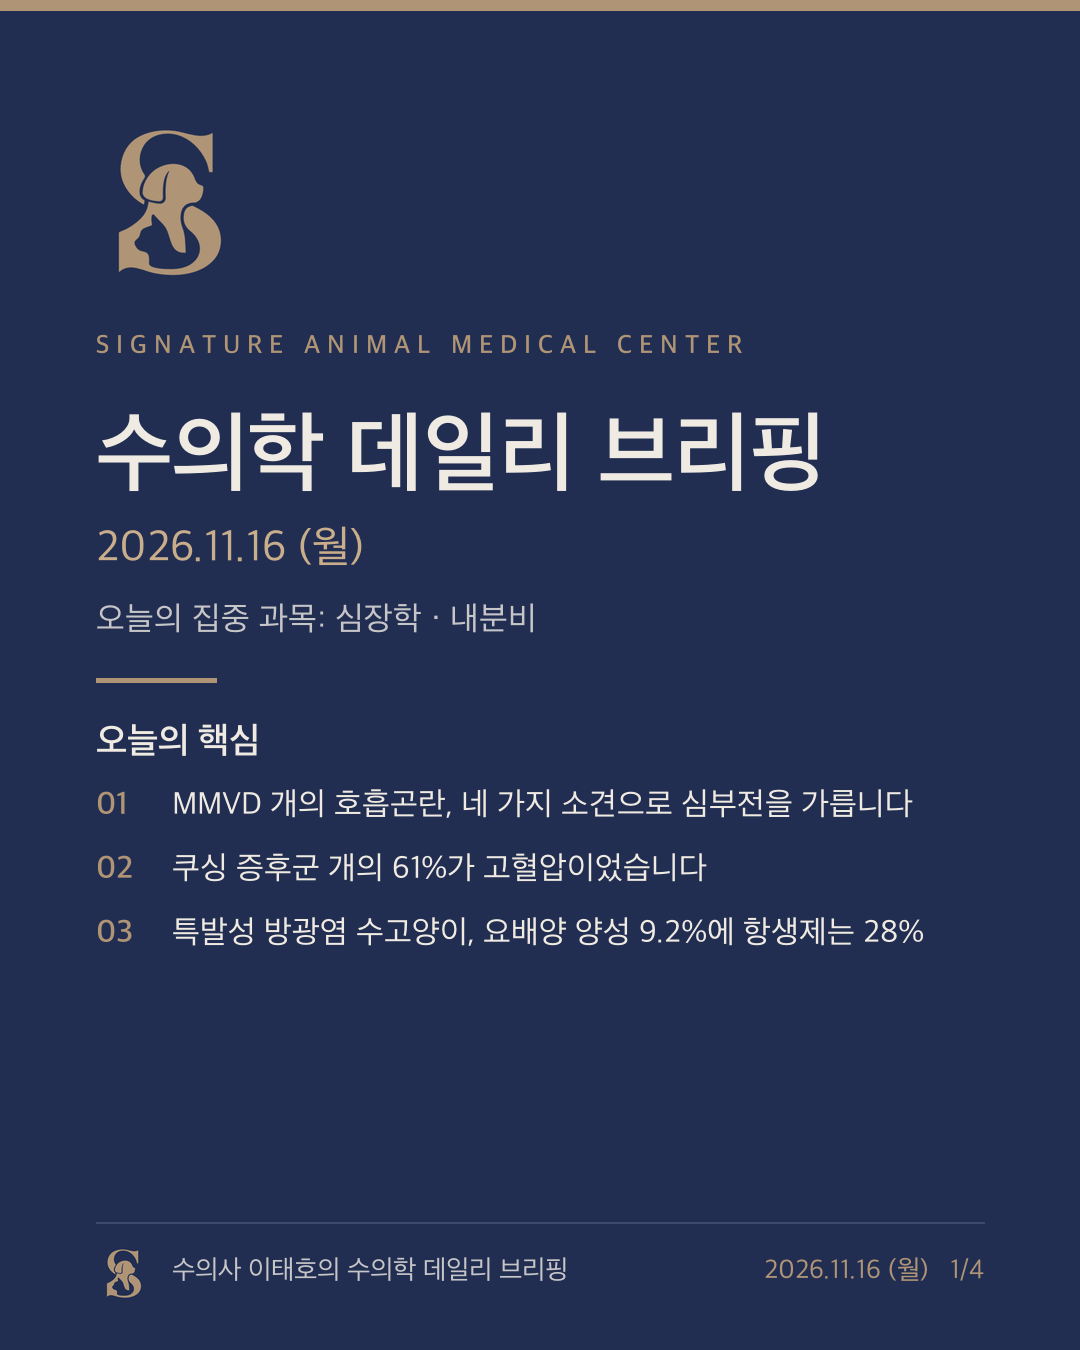
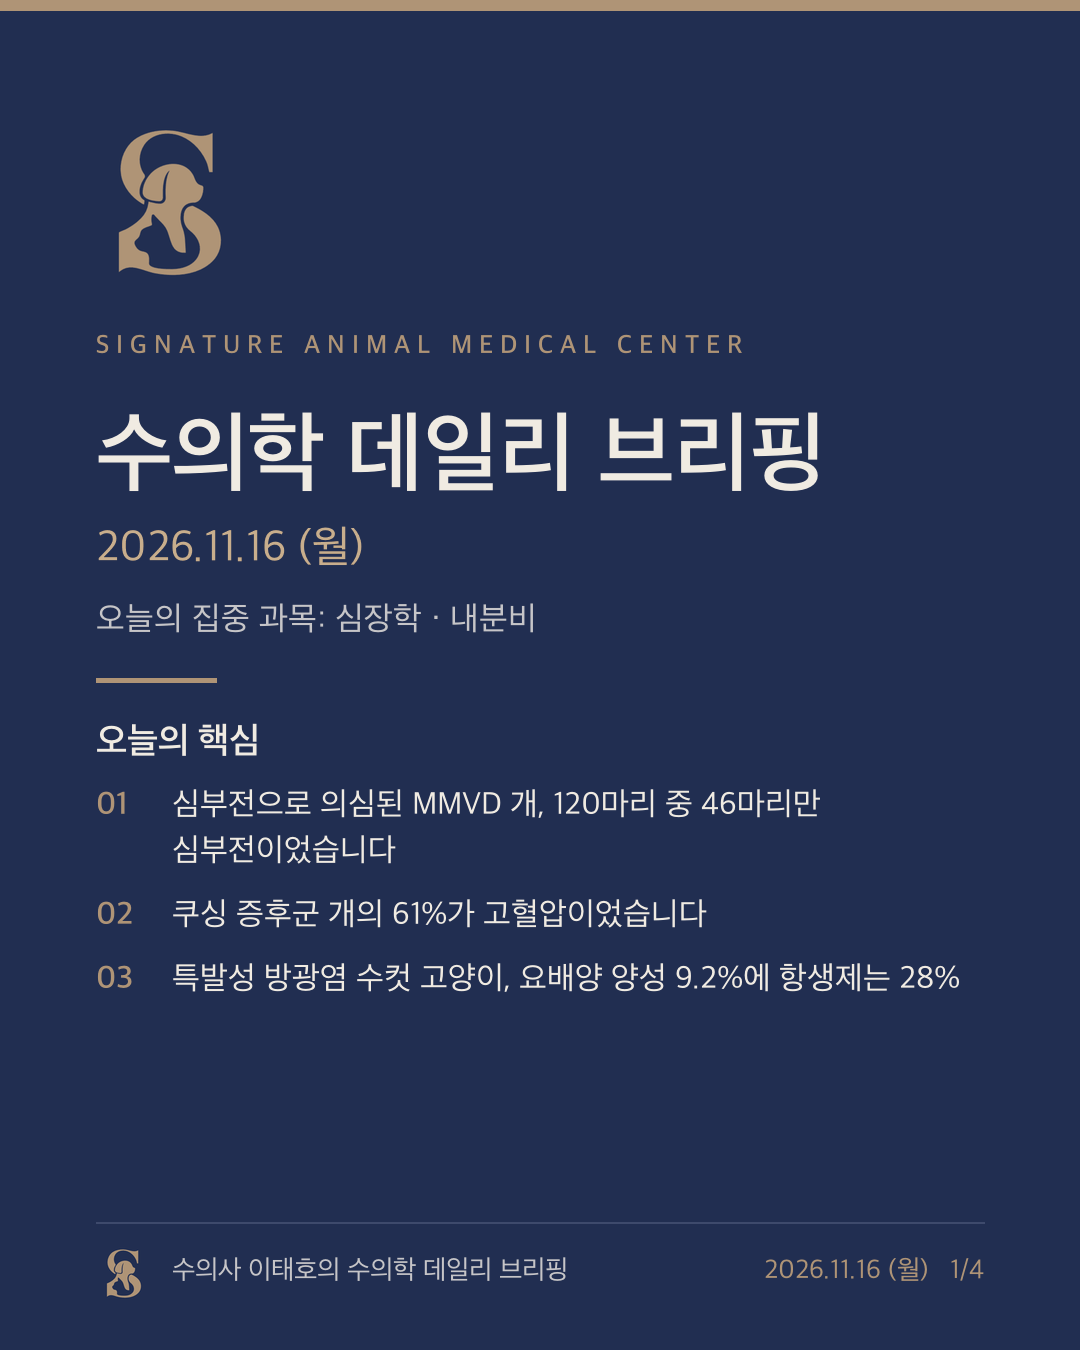
브리핑 2026-11-16 문구 수정(심부전 제목, 수컷 고양이)

Changed region(s): [[0.1528, 0.56, 0.8861, 0.7467], [0.0917, 0.6222, 0.1222, 0.7467]]

diff --git a/reports/2026-11-16.md b/reports/2026-11-16.md
@@ -6,13 +6,13 @@
 
 ## 심장학
 
-### MMVD 개의 호흡곤란, 네 가지 소견을 차례로 보면 심부전인지 가를 수 있었습니다
+### 1차 병원에서 심부전으로 의심한 MMVD 개, 120마리 중 46마리만 심부전이었습니다
 
 1차 병원에서 울혈성 심부전(CHF)이 의심된다며 보낸 MMVD 개 120마리를 영국·이탈리아·노르웨이·대만 등의 연구진이 다시 판정했습니다. 실제 CHF는 46마리였고, 나머지 74마리는 무증상 심장질환에 임상 증상의 다른 원인이 따로 있었습니다. 120마리 중 82마리는 기침 때문에 의뢰된 개였습니다.
 
 연구진은 예전에 제안했던 8개 변수 알고리듬에서 진단 정확도에 영향이 없는 변수를 덜어 내고 네 가지만 남겼습니다. CHF 개는 모두 심잡음이 크거나 촉지됐지만, CHF가 아닌 개도 59마리가 그랬습니다. 동성 부정맥이 없는 경우는 CHF 46마리 중 45마리, CHF가 아닌 개에서는 26마리였습니다. 헐떡이지 않는 개만 보면 CHF 개는 모두 빈호흡이나 호흡곤란이 있었고, CHF가 아닌 개는 56마리 중 7마리였습니다. 중등도 이상의 좌심방 확장은 CHF 개 전부에 있었고 CHF가 아닌 개는 35마리 중 25마리였습니다. 네 항목을 차례로 적용했을 때 CHF 진단 민감도는 98%, 특이도는 95%였습니다.
 
-**임상적 의미** — 1차 병원에서 CHF로 의심해 보낸 개의 60% 남짓이 CHF가 아니었다는 점이 먼저 눈에 들어옵니다. 이 자료에서는 큰 심잡음 하나로 CHF를 가를 수 없었습니다. 진료실에서 바로 쓸 수 있는 것은 동성 부정맥과 호흡수입니다. 동성 부정맥이 있으면 CHF 개는 46마리 중 1마리뿐이었고, 헐떡이지 않는데 빈호흡도 호흡곤란도 없으면 CHF 개는 없었습니다. 기침하는 MMVD 개에게 이뇨제를 시작하기 전에 다른 원인을 먼저 찾아볼 근거가 됩니다. 마지막 단계인 좌심방 크기는 결국 영상으로 확인해야 하고, 자료는 2015–2017년에 이미 의뢰된 개에서 모은 것입니다.
+**임상적 의미** — 1차 병원에서 CHF로 의심해 보낸 개의 60% 남짓이 CHF가 아니었다는 점이 먼저 눈에 들어옵니다. 이 자료에서는 큰 심잡음 하나로는 CHF인지 아닌지 구분되지 않았습니다. 진료실에서 바로 쓸 수 있는 것은 동성 부정맥과 호흡수입니다. 동성 부정맥이 있으면 CHF 개는 46마리 중 1마리뿐이었고, 헐떡이지 않는데 빈호흡도 호흡곤란도 없으면 CHF 개는 없었습니다. 기침하는 MMVD 개에게 이뇨제를 시작하기 전에 다른 원인을 먼저 찾아볼 근거가 됩니다. 마지막 단계인 좌심방 크기는 결국 영상으로 확인해야 하고, 자료는 2015–2017년에 이미 의뢰된 개에서 모은 것입니다.
 
 - **출처** — Journal of the American Veterinary Medical Association, 2026 · [DOI 10.2460/javma.26.06.0470](https://doi.org/10.2460/javma.26.06.0470)
 - **원제** — *A simple algorithm allows triaging of dogs with mitral valve disease into cardiac or noncardiac causes of dyspnea.*
@@ -40,9 +40,9 @@
 
 ## 신장·비뇨기 (매일 공통)
 
-### 특발성 방광염 수고양이, 요배양 양성은 9.2%였는데 항생제는 28%가 받았습니다
+### 특발성 방광염 수컷 고양이, 요배양 양성은 9.2%였는데 항생제는 28%가 받았습니다
 
-미국과 캐나다의 2차 진료 병원 40곳이 2025년 1–9월 특발성 방광염(FIC) 수고양이를 전향적으로 모았습니다. 체중 2 kg을 넘고 CBC, 혈청 화학, 요검사, 요배양, 복부 초음파를 모두 마친 고양이만 넣었습니다. 요도 폐색이 없는 FIC 111마리, 요도 폐색(UO) 346마리, 모두 457마리였습니다.
+미국과 캐나다의 2차 진료 병원 40곳이 2025년 1–9월 특발성 방광염(FIC) 수컷 고양이를 전향적으로 모았습니다. 체중 2 kg을 넘고 CBC, 혈청 화학, 요검사, 요배양, 복부 초음파를 모두 마친 고양이만 넣었습니다. 요도 폐색이 없는 FIC 111마리, 요도 폐색(UO) 346마리, 모두 457마리였습니다.
 
 두 군은 나이, 체중, 요검사의 세균뇨, 요배양 양성률, 의뢰 전 항생제 처방에서 차이가 없었습니다. 그런데 의뢰된 뒤 항생제를 쓴 경우는 UO군에서 유의하게 많았습니다. 전체로 보면 130마리(28%)가 항생제를 받았고, 요배양이 양성이었던 것은 42마리(9.2%)였습니다.
 
@@ -50,5 +50,5 @@
 
 - **출처** — Journal of the American Veterinary Medical Association, 2026 · [DOI 10.2460/javma.26.07.0552](https://doi.org/10.2460/javma.26.07.0552)
 - **원제** — *Antimicrobial use exceeds culture-confirmed urinary tract infections in cats with feline idiopathic cystitis with and without urethral obstruction.*
-- **근거 수준** — 전향 다기관 관찰 연구(수고양이 457마리, 40개 병원)
+- **근거 수준** — 전향 다기관 관찰 연구(수컷 고양이 457마리, 40개 병원)
 - **교신저자** — Melissa Chang (Veterinary Specialty Hospital Sorrento Valley, Sorrento Valley, CA)
